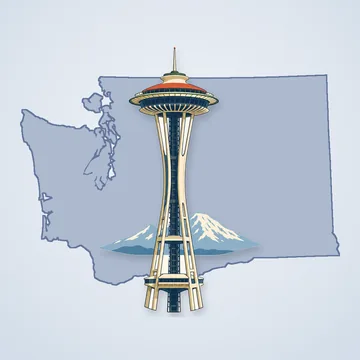
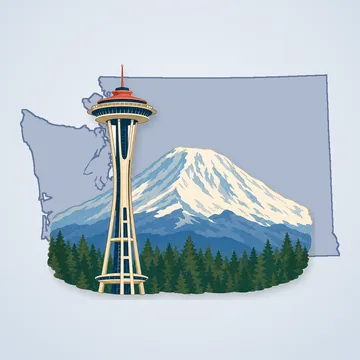
Go Fish: Washington redrawn with Mount Rainier whole behind the Space Needle
Claude-Session: https://claude.ai/code/session_015uEsRw6hD2rgSarZKYnZDk

Changed region(s): [[0.1222, 0.1222, 0.8861, 0.8861]]

diff --git a/scripts/gofish-decks/briefs.js b/scripts/gofish-decks/briefs.js
@@ -145,7 +145,7 @@ const D = {
     alaska: 'A bull moose standing side-on: a dark brown body, a long face with a dewlap, and very broad, flat, palm-shaped antlers. Exactly four long legs.',
     hawaii: 'A Hawaiian green sea turtle swimming gracefully: an olive and brown patterned shell, four flippers, a small head.',
     arizona: 'The Grand Canyon: layered red, orange and cream canyon walls with a green river winding at the bottom, and a tall saguaro cactus with two upturned arms in the front.',
-    washington: 'The Space Needle in Seattle: a tall slender tower on three pairs of curved legs rising to a flying-saucer-shaped top with a thin spire, with snow-capped Mount Rainier small in the distance behind it.',
+    washington: 'The Space Needle in Seattle in front of Mount Rainier, the way the city sees it on a clear day: a tall slender tower on three pairs of curved legs rising to a flying-saucer-shaped top with a thin spire, standing at the left of center; behind it to the right, Mount Rainier as one broad, snow-and-glacier-covered volcano rising from a low band of dark green forest, its wide gentle summit level with the Space Needle\'s saucer top and its base about half the picture wide, clearly a whole mountain resting on the ground, not floating and not cut off. One mountain only.',
     louisiana: 'A brown pelican, the state bird, standing on a weathered wooden dock post: a gray-brown body, a white neck and a pale yellow crown, a long gray bill with a throat pouch.',
     michigan: 'An American robin, the state bird, perched on a branch of apple blossoms, the state flower: a gray-brown back, an orange-red breast, a yellow bill; white five-petaled blossoms with pink edges.',
     southdakota: 'Mount Rushmore: the four colossal granite faces of the presidents Washington, Jefferson, Theodore Roosevelt and Lincoln carved side by side into a gray granite mountainside, with pine trees at its foot. Respectful, dignified, recognizable likenesses carved in stone.',
